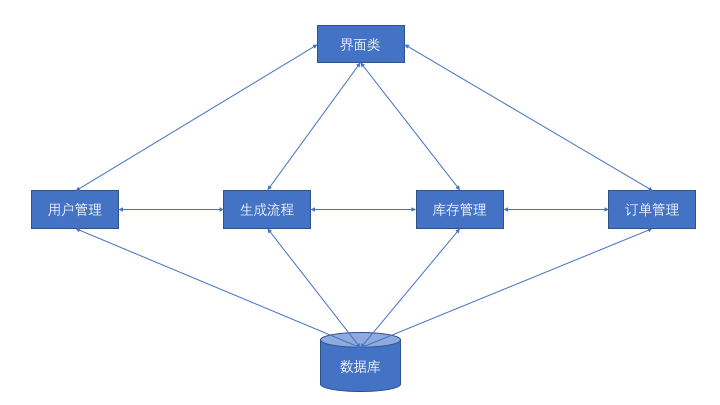
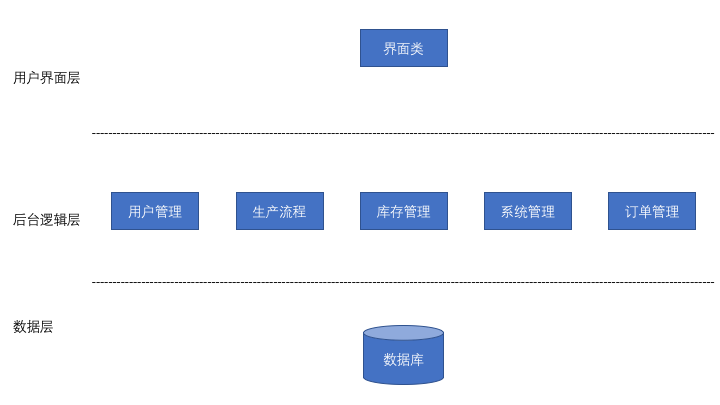
document verion 0.2, more details

diff --git a/README.md b/README.md
@@ -1,11 +1,109 @@
+<style type="text/css">
+        /* automatic heading numbering */
+    
+    h1 {
+        counter-reset: h2counter;
+    }
+    h2 {
+        counter-reset: h3counter;
+    }
+    h3 {
+        counter-reset: h4counter;
+    }
+    h4 {
+        counter-reset: h5counter;
+    }
+    h5 {
+        counter-reset: h6counter;
+    }
+    h6 {} h2:before {
+        counter-increment: h2counter;
+        content: counter(h2counter) ".\0000a0\0000a0";
+    }
+    h3:before {
+        counter-increment: h3counter;
+        content: counter(h2counter) "." counter(h3counter) ".\0000a0\0000a0";
+    }
+    h4:before {
+        counter-increment: h4counter;
+        content: counter(h2counter) "." counter(h3counter) "." counter(h4counter) ".\0000a0\0000a0";
+    }
+    h5:before {
+        counter-increment: h5counter;
+        content: counter(h2counter) "." counter(h3counter) "." counter(h4counter) "." counter(h5counter) ".\0000a0\0000a0";
+    }
+    h6:before {
+        counter-increment: h6counter;
+        content: counter(h2counter) "." counter(h3counter) "." counter(h4counter) "." counter(h5counter) "." counter(h6counter) ".\0000a0\0000a0";
+    }
+</style>
+
+[toc]
 # mitcpro
 ## 整体设计
-整个系统分为如下三个部分：第一行为用户界面，第二行为后台处理逻辑，第三行为数据库。
+整个系统分为三层：用户界面层，后台逻辑层，数据层。
 
-其中第一和第二部分全部使用 C# 编写，体现为一个个类，第三部分是SQLServer 数据库。
+用户界面层负责窗体的绘制、用户的交互、数据的展示。
 
-界面是一个类，负责界面的绘制，以及根据用户的操作调用第二行中对应模块的对应方法，获取返回数据并展示。
+后台逻辑层负责本项目的主体功能，根据功能划分为不同模块。每个模块开放若干接口，便于上层（用户界面层）和本层其他模块进行调用。每个模块根据功能会向下连接数据库，并对数据库进行增删改查等操作。
 
-后台逻辑根据功能分为多个类，每一个类负责向界面提供接口，响应用户操作；还负责和数据库交互，存取数据。其中生产流程涉及多个流程，前期先做一个流程。该流程完成之后，再补充其他流程。
+数据层主要为 SQLServer 数据库，需要根据系统功能设计若干张表，用于保存系统的关键数据和方便用户查询。
+
+第一层和第二层部分全部使用 C# 编写，体现为多个类。其中界面类是本系统的主程序，它拥有后台逻辑层各类的实例，当用户在界面进行某些操作后，通过这些实例调用对应的接口完成功能。
+
 
 ![ss](proj_diagram.png)
+
+## 用户界面层
+
+### 总体流程图
+进入主界面前的流程如图所示：
+
+
+![ss](ui_whole.png)
+
+
+进入主界面后，根据用户的角色跳转到指定界面，并确定该用户可以访问的界面。
+
+界面用选项卡分成五个部分，分别是：订单管理、库存管理、生产流程管理、系统管理、帮助。
+
+### 角色和界面的关系
+
+
+【**要和甲方确认有哪些角色，每个角色都有什么权限**】
+暂定角色有：系统管理员，仓库管理员，订单管理员，生产计划员，操作员[N]。
+
+系统管理员默认进入系统管理界面，ta 可以访问所有界面。
+
+仓库管理员默认进入库存管理界面，ta 可以访问『库存管理』和『帮助』下的界面。
+
+订单管理员默认进入订单管理界面，ta 可以访问『订单管理』和『帮助』下的界面。
+
+生产计划员默认进入生产流程管理界面下的生产计划计划子界面，ta 可以访问『生产流程管理』下的『生产计划』界面和『帮助』界面。
+
+操作员[N]默认进入生产流程管理界面下的其对应工序的生产子界面，ta 可以访问『生产流程管理』下的『XX』界面和『帮助』界面。
+
+### XXX 界面详细设计
+【**所有细节需要确认**】
+
+## 后台逻辑层
+
+### 用户管理
+
+#### 功能简述
+
+#### 接口列表
+
+### 生产流程
+
+### 库存管理
+
+### 系统管理
+
+### 订单管理
+
+## 数据层
+
+
+
+
